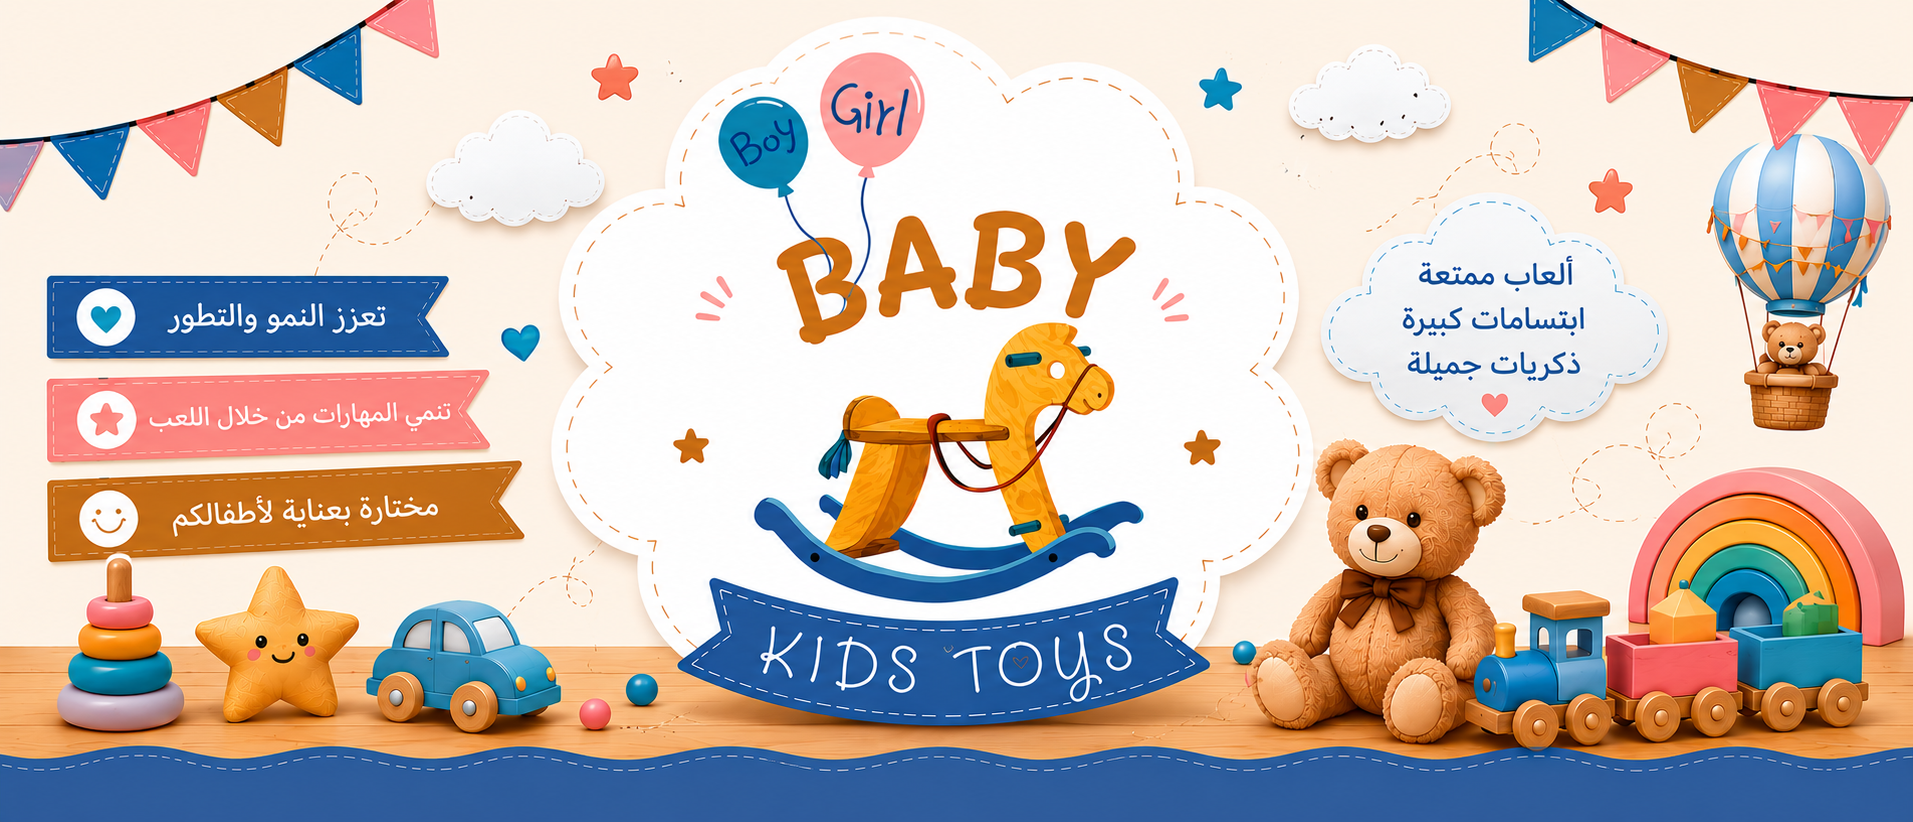
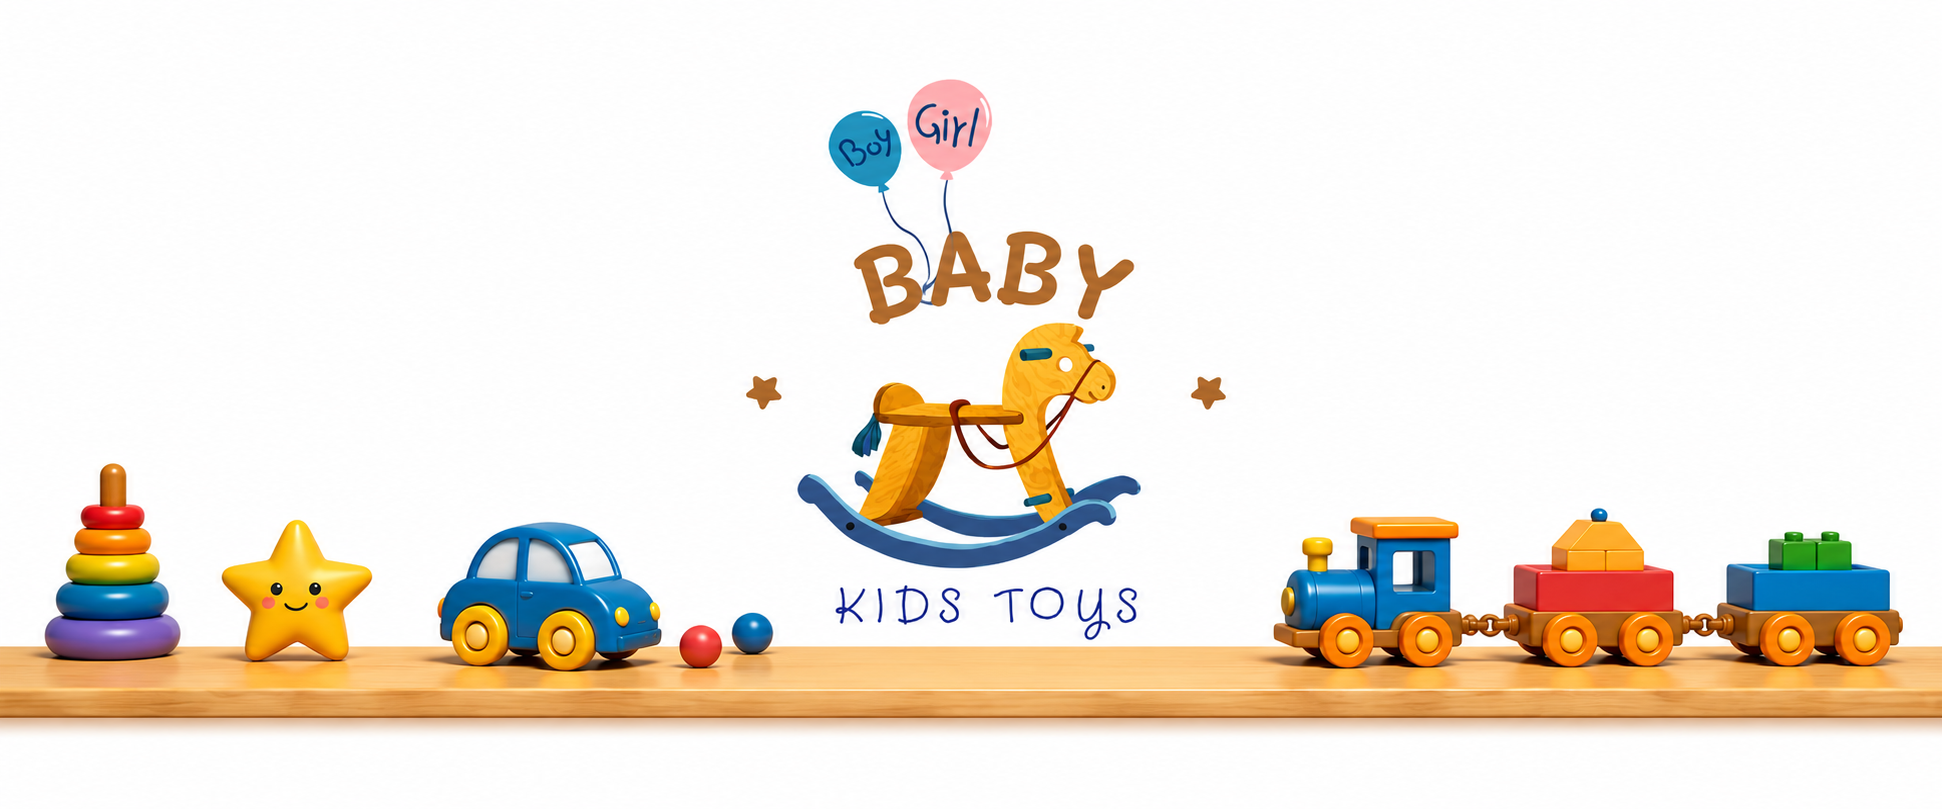
refactor: enhance ProductPage design and update Arabic labels

diff --git a/client/src/pages/ProductsPage.jsx b/client/src/pages/ProductsPage.jsx
@@ -142,6 +142,7 @@ function ProductsPage() {
           display: {
             xs: "block",
             md: "none",
+            mt: 2,
           },
           width: "100%",
           height: "auto",
@@ -179,12 +180,12 @@ function ProductsPage() {
           />
         </Paper>
 
-        <Typography variant="h4" gutterBottom textAlign="center">
+        <Typography variant="h5" gutterBottom textAlign="center">
           {t("productsPage.title")}
         </Typography>
 
         <Typography
-          variant="h5"
+          variant="h6"
           fontWeight={800}
           sx={{
             mb: 2,
@@ -194,14 +195,14 @@ function ProductsPage() {
             gap: 1,
           }}
         >
-          🎈 {t("productsPage.shopByAge")}
+          {t("productsPage.shopByAge")}
         </Typography>
         <AgeFilterCarousel
           selectedAgeRange={selectedAgeRange}
           onSelectAge={setSelectedAgeRange}
         />
         <Typography
-          variant="h5"
+          variant="h6"
           fontWeight={800}
           sx={{
             mb: 2,
@@ -211,7 +212,7 @@ function ProductsPage() {
             gap: 1,
           }}
         >
-          🎲 {t("productsPage.shopByCategory")}
+          {t("productsPage.shopByCategory")}
         </Typography>
         <CategoryFilterCarousel
           selectedCategory={selectedCategory}